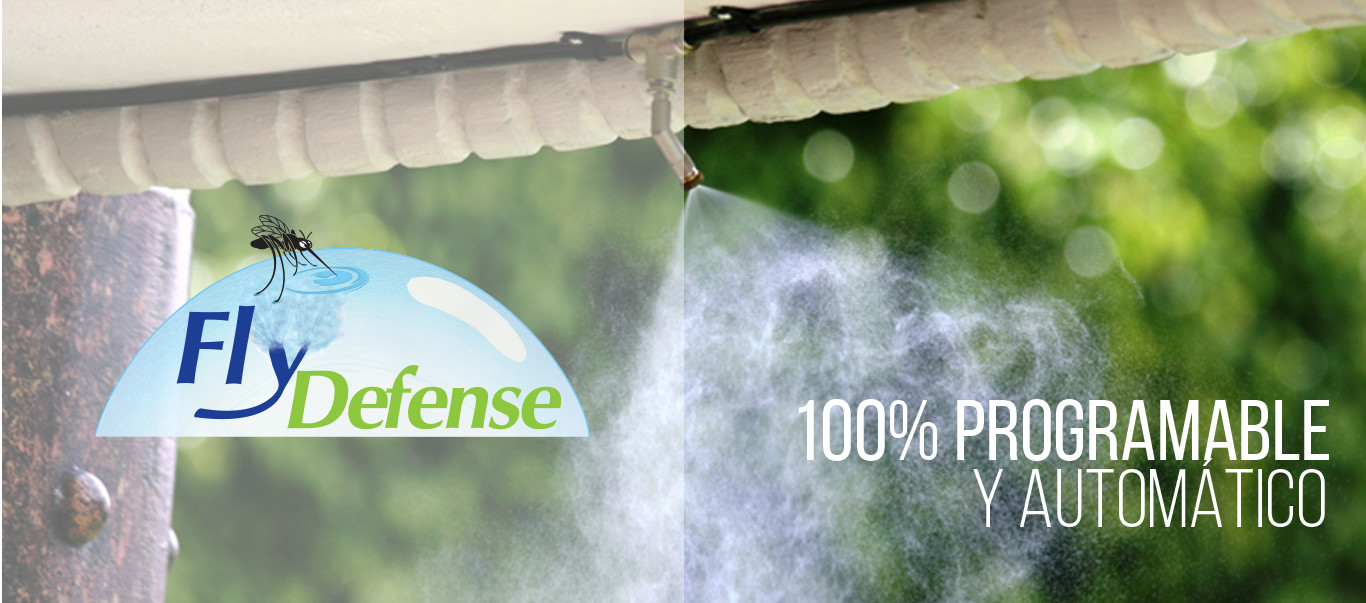
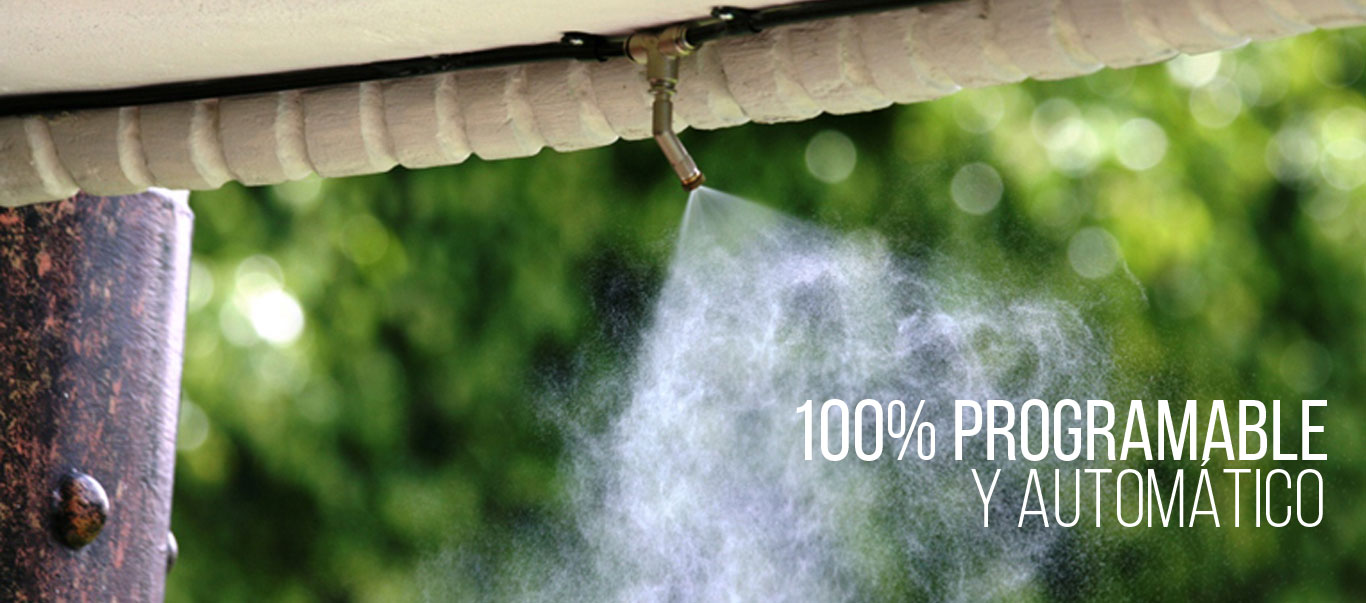
Cambios
se cambio logo y el logo del footer se redirecciona a la pagina

diff --git a/css/main.css b/css/main.css
@@ -1,13 +1,17 @@
+body{
+	height: none;
+}
+
 *{
 	font-family: 'Open Sans', sans-serif;
 }
 h6{
 	font-family: 'Open Sans Condensed', sans-serif;
 }
-.quimixLogo{
+.flyLogo{
 	width: 100%;
 	height: 180px;
-	background: url(../img/quimix-logo.png)no-repeat center;
+	background: url(../img/fly-logo.png)no-repeat center;
 	background-size: 360px;
 	
 }

diff --git a/js/main.js b/js/main.js
@@ -1,7 +1,8 @@
 
 $(document).ready(function(){
-	if ($("body").width()>=1023) {
+	if ($("body").width()>=1023); {
 		var s = skrollr.init();
-		console.log("se cargo skrollr")
+		console.log("se cargo skrollr");
 	};
-})
+
+});

diff --git a/includes/footer.php b/includes/footer.php
@@ -17,7 +17,7 @@
                          <img src="img/ESR_logo.png" width="100%" alt="Empresa socialmente responsable">
                      </div>
                      <div class="col-xs-5 col-xs-offset-1">
-                         <img src="img/logoQuimix_mini.png" width="100%" alt="">
+                         <a href="http://www.quimix.com.mx/" target="blank"><img src="img/logoQuimix_mini.png" width="100%" alt=""></a>
                      </div>
                      <div class="clearfix visible-sm-block"></div>
                      <div class="col-xs-10 col-xs-offset-2 followUs">

diff --git a/includes/menu.php b/includes/menu.php
@@ -1,4 +1,4 @@
-<header class="quimixLogo hidden-xs " data-0="background-position:center 12px; height: 180px" data-500="background-position:center 150px; height: 50px; "></header>
+<header class="flyLogo hidden-xs " data-0="background-position:center 12px; height: 180px" data-500="background-position:center 150px; height: 10px; "></header>
 <nav class="navbar " role="navigation">
   <div class="container">
     <div class="navbar-header">
